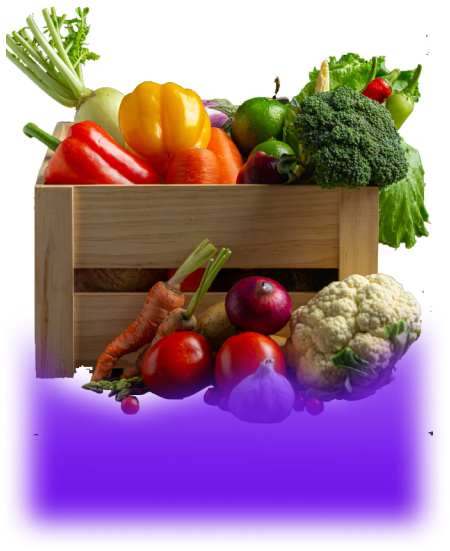
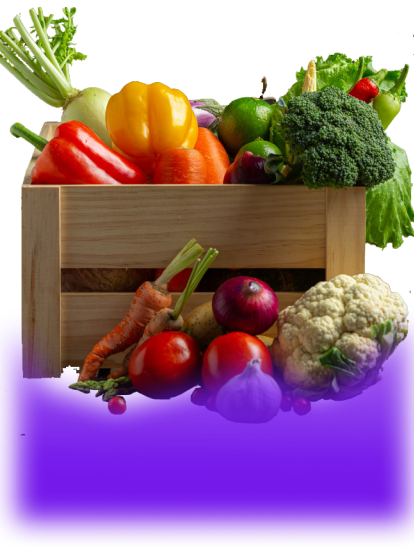
commit

diff --git a/src/containers/LoadingPage/loadingpage.css b/src/containers/LoadingPage/loadingpage.css
@@ -1,42 +1,54 @@
 .Loadingpage{
-    display: flex;
-    flex-direction: column;
-    text-align: center;
-    background-color: #7519EB;
-    background-image: url(../../Images/loading.svg);
-    background-size: 90%;
-    background-repeat: no-repeat;
-    background-position:center;
-    height: 100vh;
-    margin: 0 ;
-    align-items: center;
-    justify-content:flex-end;
+  background-color: #7519EB;
+  margin: 0;
+  padding: 0;
+  height: 100vh;
+  display: flex;
+  flex-direction: column;
+  align-items: center;
+  justify-content:flex-end;
+  overflow: hidden;
 }
 
-.logo {
-    width: 8vh;
-  }
-  .herotext{
-    color: white;
-    font-size: 40px;
-    font-weight: bolder;
-    text-align: left;
-  }
-  .heroimage{
-   width: 100%;
-    
-  }
-  .getbutton{
-    text-align: center;
-    font-size:20px;
-    width: 300px;
-    margin-top: 30px;
-    color: #FFFFFF;
-    background-color: #0BCE83;
-    border-radius: 30px;
-    padding: 10px 20px 10px 20px;
+.bg-img{
+  position: absolute;
+  max-width: 450px;
+  z-index: 1;
+  top: 10%;
+}
 
-  }
-.loadingbox{
-  margin-bottom: 450px;
+.logo-img{
+  position: absolute;
+  max-width: 450px;
+  top: 6%;
+  z-index: 2;
+}
+
+.herotext{
+  color: white;
+  font-size: 65px;
+  font-weight: bolder;
+  text-align: left;
+  position: absolute;
+  top: 18%;
+}
+.heroimage{
+  width: 95%;
+  position: absolute;
+  max-width: 450px; 
+  z-index: 2;
+  top: 37%;
+  
+}
+.getbutton{
+  text-align: center;
+  font-size:20px;
+  color: #FFFFFF;
+  background-color: #0BCE83;
+  border-radius: 30px;
+  padding: 15px 20px 15px 20px;
+  width: 250px;
+  z-index: 5;
+  position: absolute;
+  bottom: 5%;
 }

diff --git a/src/containers/LoadingPage/LoadingPage.jsx b/src/containers/LoadingPage/LoadingPage.jsx
@@ -1,21 +1,23 @@
 import React from 'react'
 import logo from '../../Images/logo.png';
 import heroimg from '../../Images/Hero Image.png';
+import background from '../../Images/Backgroundlogo.png'; 
 import { Link } from 'react-router-dom';
 import "./loadingpage.css"
 
 function LoadingPage() {
   return (
     <div className='Loadingpage'>
-      <div className='loadingbox'>
-          <div className="herotext">Farm fresh <br></br>for all</div>
+      <img className='bg-img' src={background} alt="bg-img" />
+      <img className='logo-img' src={logo} alt="logo-img" />
 
-          <Link to="/introduction">
-            <div className="getbutton">
-              Get Started
-            </div>
-          </Link>
-        </div>
+      <h1 className="herotext">Farm fresh <br></br>for all</h1>
+      <img className='heroimage' src={heroimg} alt="" />
+      <div className="getbutton">
+        <Link to="/introduction">
+          Get Started
+        </Link>
+      </div>
     </div>
   )
 }

diff --git a/src/App.js b/src/App.js
@@ -1,9 +1,7 @@
 import './App.css';
 import React from 'react';
 import { BrowserRouter as Router, Routes, Route } from 'react-router-dom';
-import { IntroPage, LoadingPage, SignupPage,LocationPage, LoginPage } from './containers';
-
-
+import { IntroPage, LoadingPage, SignupPage,LocationPage, LoginPage, Dashboard } from './containers';
 
 
 const App = () => {
@@ -15,7 +13,7 @@ const App = () => {
         <Route path="/signup" exact element={<SignupPage />} />
         <Route path="/login" exact element={<LoginPage />} />
         <Route path="/location" exact element={<LocationPage/>} />
-        <Route path="/login" exact element={<LoginPage/>} />
+        <Route path="/dashboard" exact element={<Dashboard/>} />
       </Routes>
     </Router>
   );

diff --git a/src/components/Navbar/Navbar.jsx b/src/components/Navbar/Navbar.jsx
@@ -1,0 +1,20 @@
+import React from 'react'
+import './navbar.css'
+import navimg1 from '../../Images/navbarlogo1.svg'
+import navimg2 from '../../Images/navbarlogo2.svg'
+import navimg3 from '../../Images/navbarlogo3.svg'
+import navimg4 from '../../Images/navbarlogo4.svg'
+
+
+function Navbar() {
+  return (
+    <div className='navbar-container'>
+        <img src={navimg1} alt="" />
+        <img src={navimg2} alt="" />
+        <img src={navimg3} alt="" />
+        <img src={navimg4} alt="" />
+    </div>
+  )
+}
+
+export default Navbar

diff --git a/src/containers/LocationPage/LocationPage.jsx b/src/containers/LocationPage/LocationPage.jsx
@@ -14,7 +14,7 @@ function LocationPage() {
                 </br>provide the nearest farms and delivery points so as to ease your distance.
                 </div>
                 <div className='continuebutton'>
-                    <Link to="/login">
+                    <Link to="/dashboard">
                     Continue
                     </Link>
                 </div>

diff --git a/src/containers/Dashboard/Dashboard.jsx b/src/containers/Dashboard/Dashboard.jsx
@@ -1,9 +1,13 @@
 import React from 'react'
+import './dashboard.css'
+import { Navbar } from '../../components'
 
 function Dashboard() {
   return (
-    <div className='dashboard overall container'>
-      
+    <div className='dashboard-overall-container'>
+      <h1>dashboard</h1>
+
+      <Navbar/>
     </div>
   )
 }

diff --git a/src/containers/index.js b/src/containers/index.js
@@ -4,4 +4,6 @@ export { default as SignupPage } from './SignupPage/SignupPage';
 export {default as LoginPage} from './LoginPage/LoginPage';
 
 export {default as LocationPage} from './LocationPage/LocationPage';
+export {default as Dashboard} from './Dashboard/Dashboard';
+
 

diff --git a/src/containers/Dashboard/dashboard.css b/src/containers/Dashboard/dashboard.css
@@ -1,0 +1,8 @@
+.dashboard-overall-container{
+    height: 100vh;
+    width: 100%;
+    max-width: 450px;
+    background-image: url('../../Images/whitecommonbg.png');
+    background-repeat: no-repeat;
+    background-size: contain;
+}

diff --git a/src/components/Navbar/navbar.css b/src/components/Navbar/navbar.css
@@ -1,0 +1,11 @@
+.navbar-container{
+    display: flex;
+    align-items: center;
+    justify-content: center;
+    height: 50px;
+    width: 100%;
+    max-width: 450px;
+    position: absolute;
+    bottom: 20px;
+    gap:15%;
+}

diff --git a/src/components/index.js b/src/components/index.js
@@ -1,1 +1,2 @@
 export {default as ProductComponent} from './ProductComponent/ProductComponent';
+export {default as Navbar} from './Navbar/Navbar';
